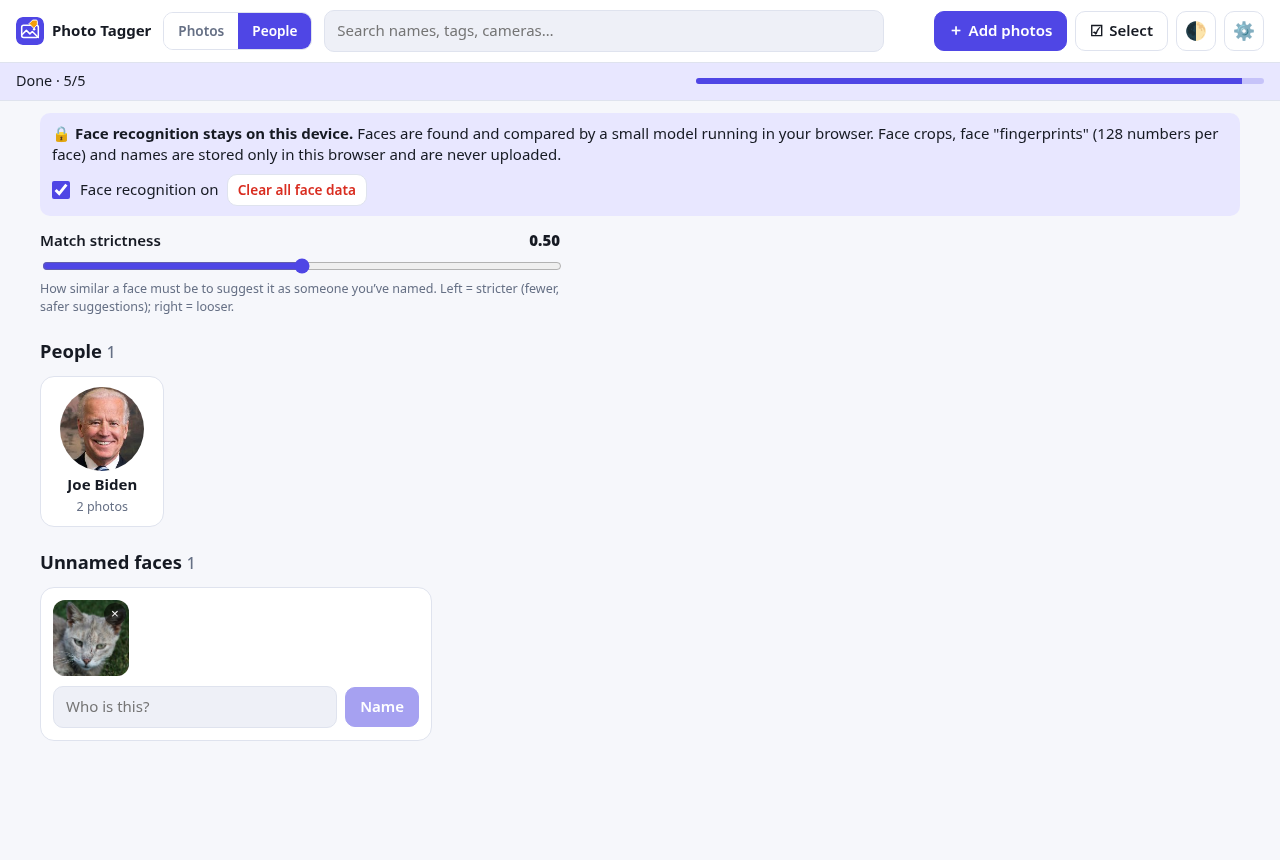
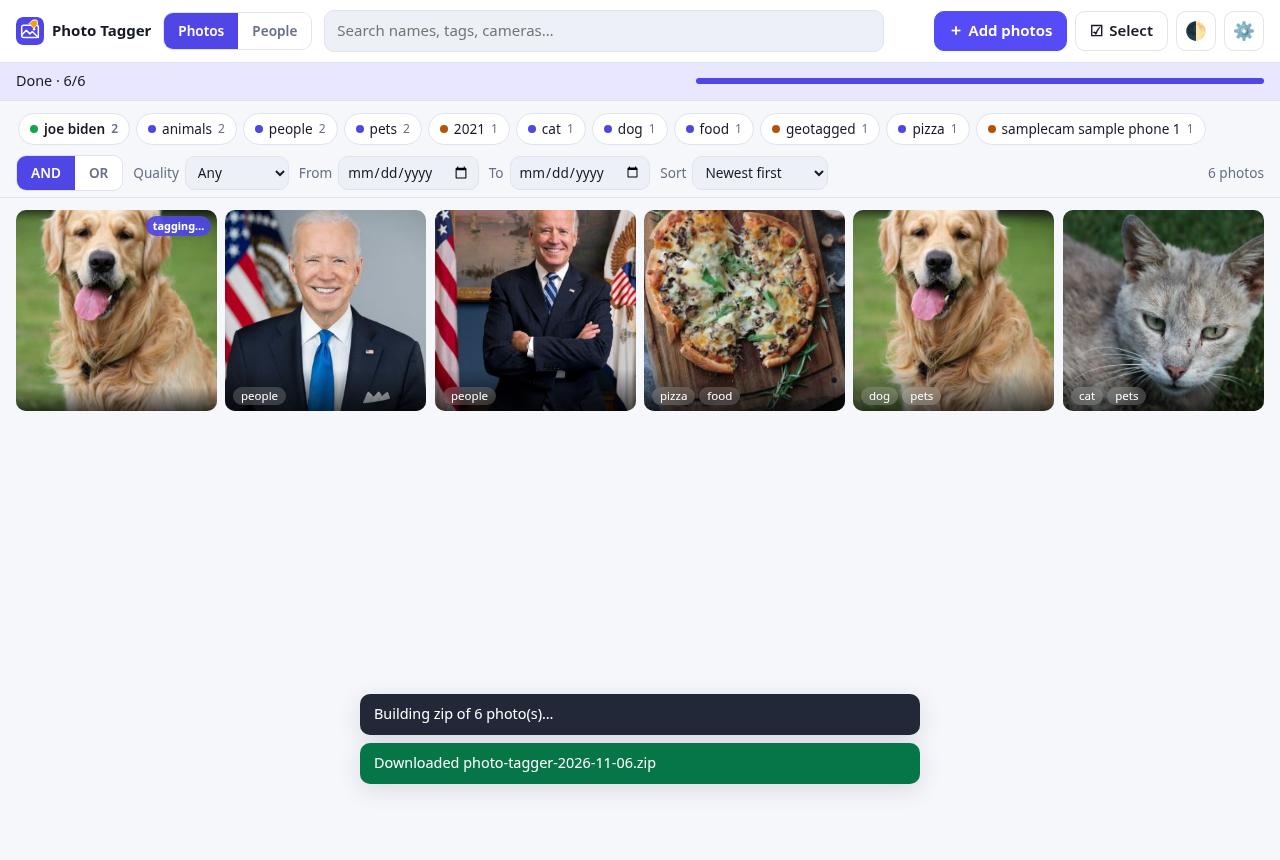
Fix Dropbox Chooser domain hint: hostname only, no https://

diff --git a/src/components/SettingsDialog.tsx b/src/components/SettingsDialog.tsx
@@ -106,7 +106,8 @@ function DropboxTab() {
       </p>
       <ol className="steps">
         <li>Open <a href="https://www.dropbox.com/developers/apps/create" target="_blank" rel="noreferrer noopener">dropbox.com/developers/apps/create</a> and create an app (Scoped access → App folder or Full Dropbox).</li>
-        <li>On the app’s <b>Settings</b> tab, add this site to <b>Chooser / Saver domains</b>: <code data-testid="origin">{location.origin}</code></li>
+        <li>On the app’s <b>Settings</b> tab, add this site to <b>Chooser / Saver / Embedder domains</b>: <code data-testid="origin">{location.hostname}</code>
+          <small> Enter the hostname only — no <code>https://</code>, no path, no port. Dropbox rejects values like <code>https://example.com</code>.</small></li>
         <li>Copy the <b>App key</b> and paste it below.</li>
       </ol>
       <label className="field">

diff --git a/docs/DROPBOX_SETUP.md b/docs/DROPBOX_SETUP.md
@@ -15,13 +15,13 @@ Photo Tagger never ships a key and never asks you for one anywhere except your o
 
 On the new app's **Settings** tab:
 
-1. Find **Chooser / Saver domains**.
-2. Add the address where you run Photo Tagger, for example:
-   - `http://localhost:5173` (dev server) or `http://127.0.0.1:4174` (preview) – while testing on your computer
-   - `https://cdrjohnson.github.io` – for the live GitHub Pages app (use just the origin, not the `/photo-tagger/` path)
-3. Press Enter after each one. Photo Tagger shows the exact origin to use in **Settings → Dropbox**.
+1. Find **Chooser / Saver / Embedder domains**.
+2. Add each **hostname** where you run Photo Tagger. Dropbox wants the hostname only — **no** `https://`, **no** path, **no** port. Examples:
+   - `localhost` (and `127.0.0.1` if you browse that way) – while testing on your computer
+   - `cdrjohnson.github.io` – for the live GitHub Pages app (not `https://cdrjohnson.github.io`, and not `/photo-tagger/`)
+3. Press Enter after each one. Photo Tagger’s **Settings → Dropbox** shows the hostname to paste.
 
-> Until you add a domain, the Chooser pop-up will show an error instead of your files. A new Dropbox app starts in *development* status, which is fine for your own account – you do not need to apply for production status.
+> Until you add a domain, the Chooser pop-up will show an error instead of your files. If Dropbox says the domain “is not valid” or “is incorrect”, you almost certainly included `https://` or a path — remove them and try again. A new Dropbox app starts in *development* status, which is fine for your own account – you do not need to apply for production status.
 
 ## 3. Give the key to Photo Tagger
 
@@ -41,7 +41,7 @@ The key typed into Settings takes priority over the build-time one.
 | Symptom | Fix |
 | --- | --- |
 | The Dropbox button opens Settings asking for a key | No key saved yet – follow steps 1–3. |
-| Pop-up says the app is not configured for this domain | Add the exact origin from Settings → Dropbox to *Chooser / Saver domains*. |
+| Pop-up says the app is not configured for this domain | Add the hostname from Settings → Dropbox to *Chooser / Saver / Embedder domains* (hostname only, no `https://`). |
 | Pop-up is blocked | Allow pop-ups for the site; it must open from a click. |
 | "Could not load the Dropbox Chooser" | You are offline, or a content blocker blocks `dropbox.com/static`. |
 | Download fails after picking | Links expire after about 4 hours; just pick the files again. |

diff --git a/docs/USER_GUIDE.md b/docs/USER_GUIDE.md
@@ -141,5 +141,5 @@ Once installed and used once online, it works offline. Use **🌓** (top right) 
 | A photo is missing tags it should have | Lower the confidence threshold, or add a custom label for it. |
 | A photo won't import | The browser may not be able to read that format (for example HEIC on desktop Chrome). Convert to JPEG first. |
 | Photos disappeared | Browser data was cleared, or you opened the app in a different browser/profile – each has its own library. Export your tags regularly. |
-| Dropbox pop-up shows an error | Add this site's address to your Dropbox app's *Chooser / Saver domains* ([steps](DROPBOX_SETUP.md)). |
+| Dropbox pop-up shows an error | Add this site's **hostname** (e.g. `cdrjohnson.github.io`, no `https://`) to your Dropbox app's *Chooser / Saver / Embedder domains* ([steps](DROPBOX_SETUP.md)). |
 | Slow tagging on a phone | Keep the screen on and the app open while it works; photos are processed one by one. |
